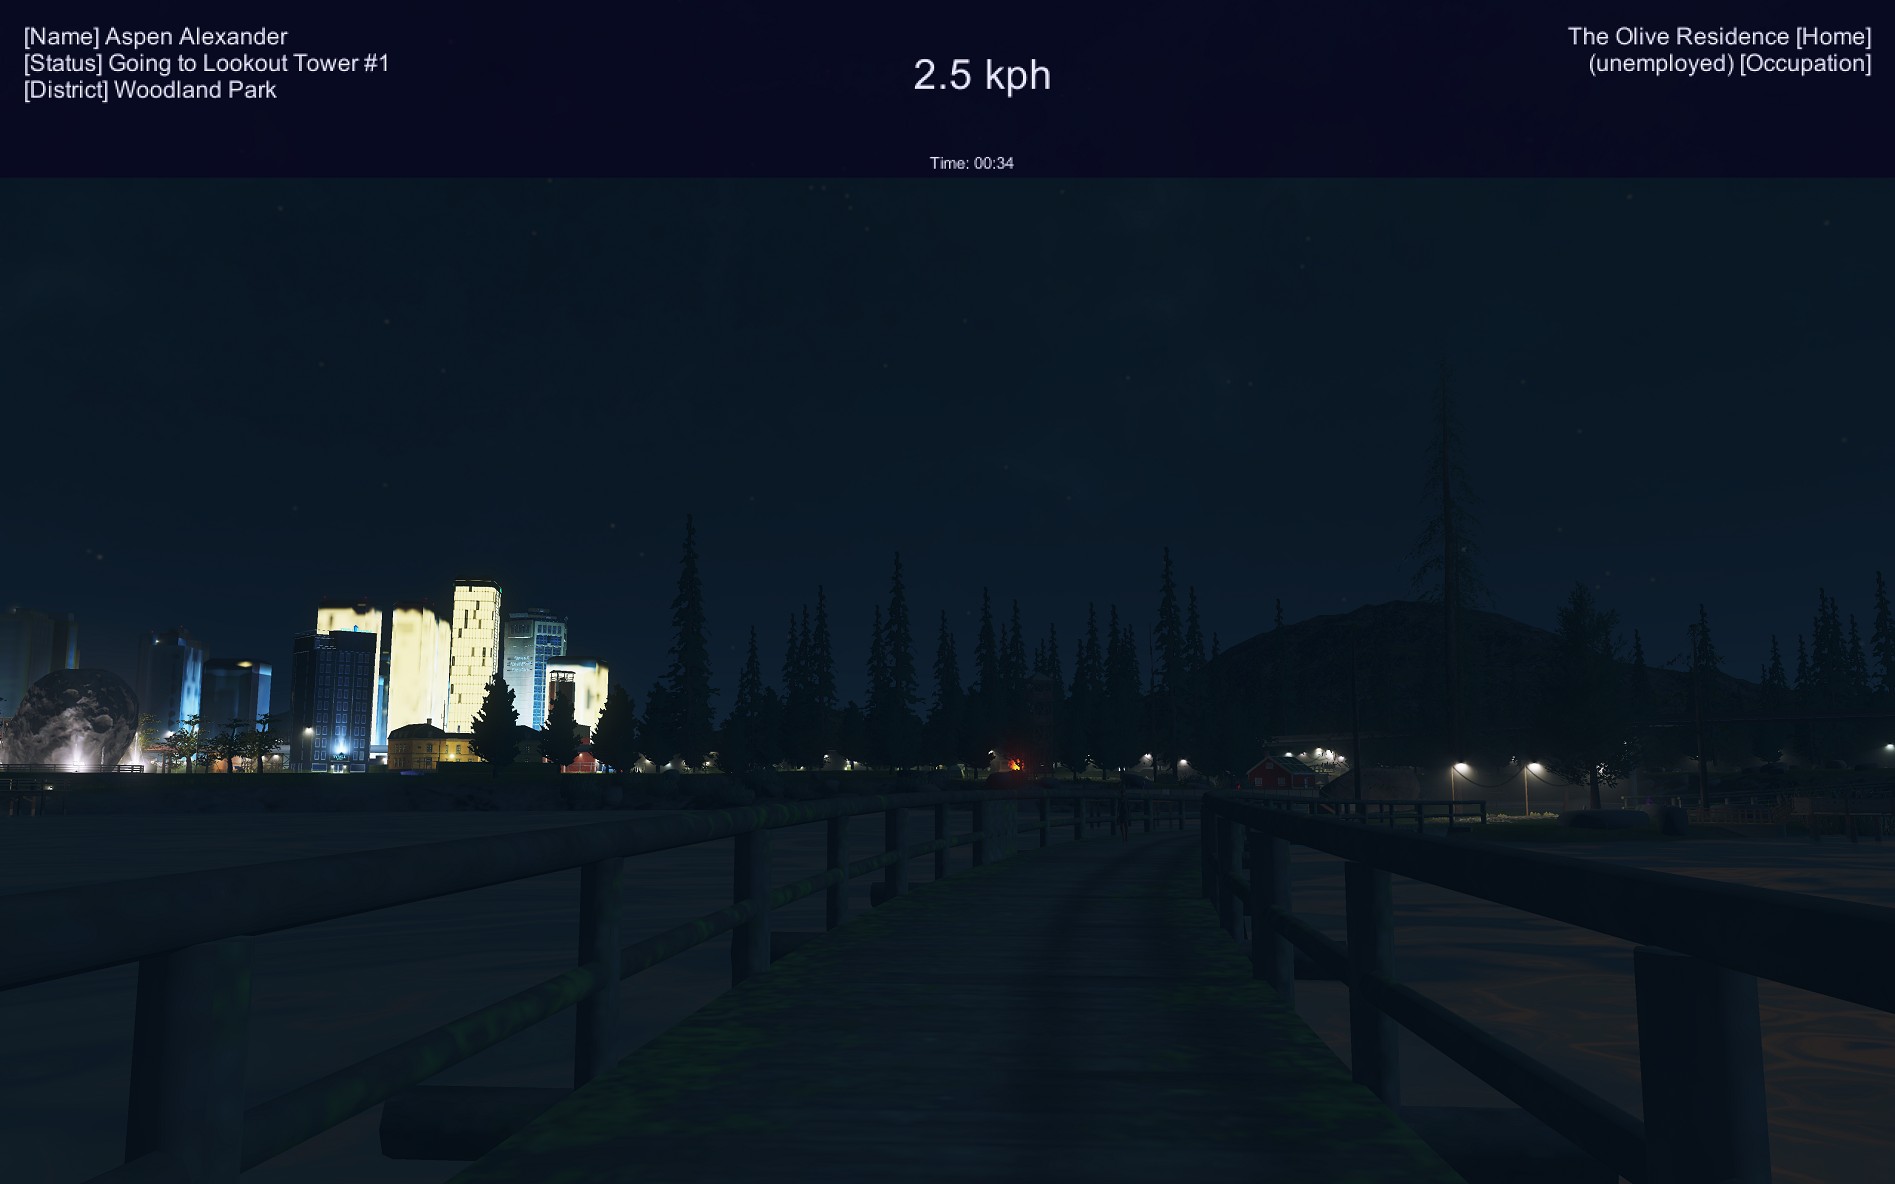
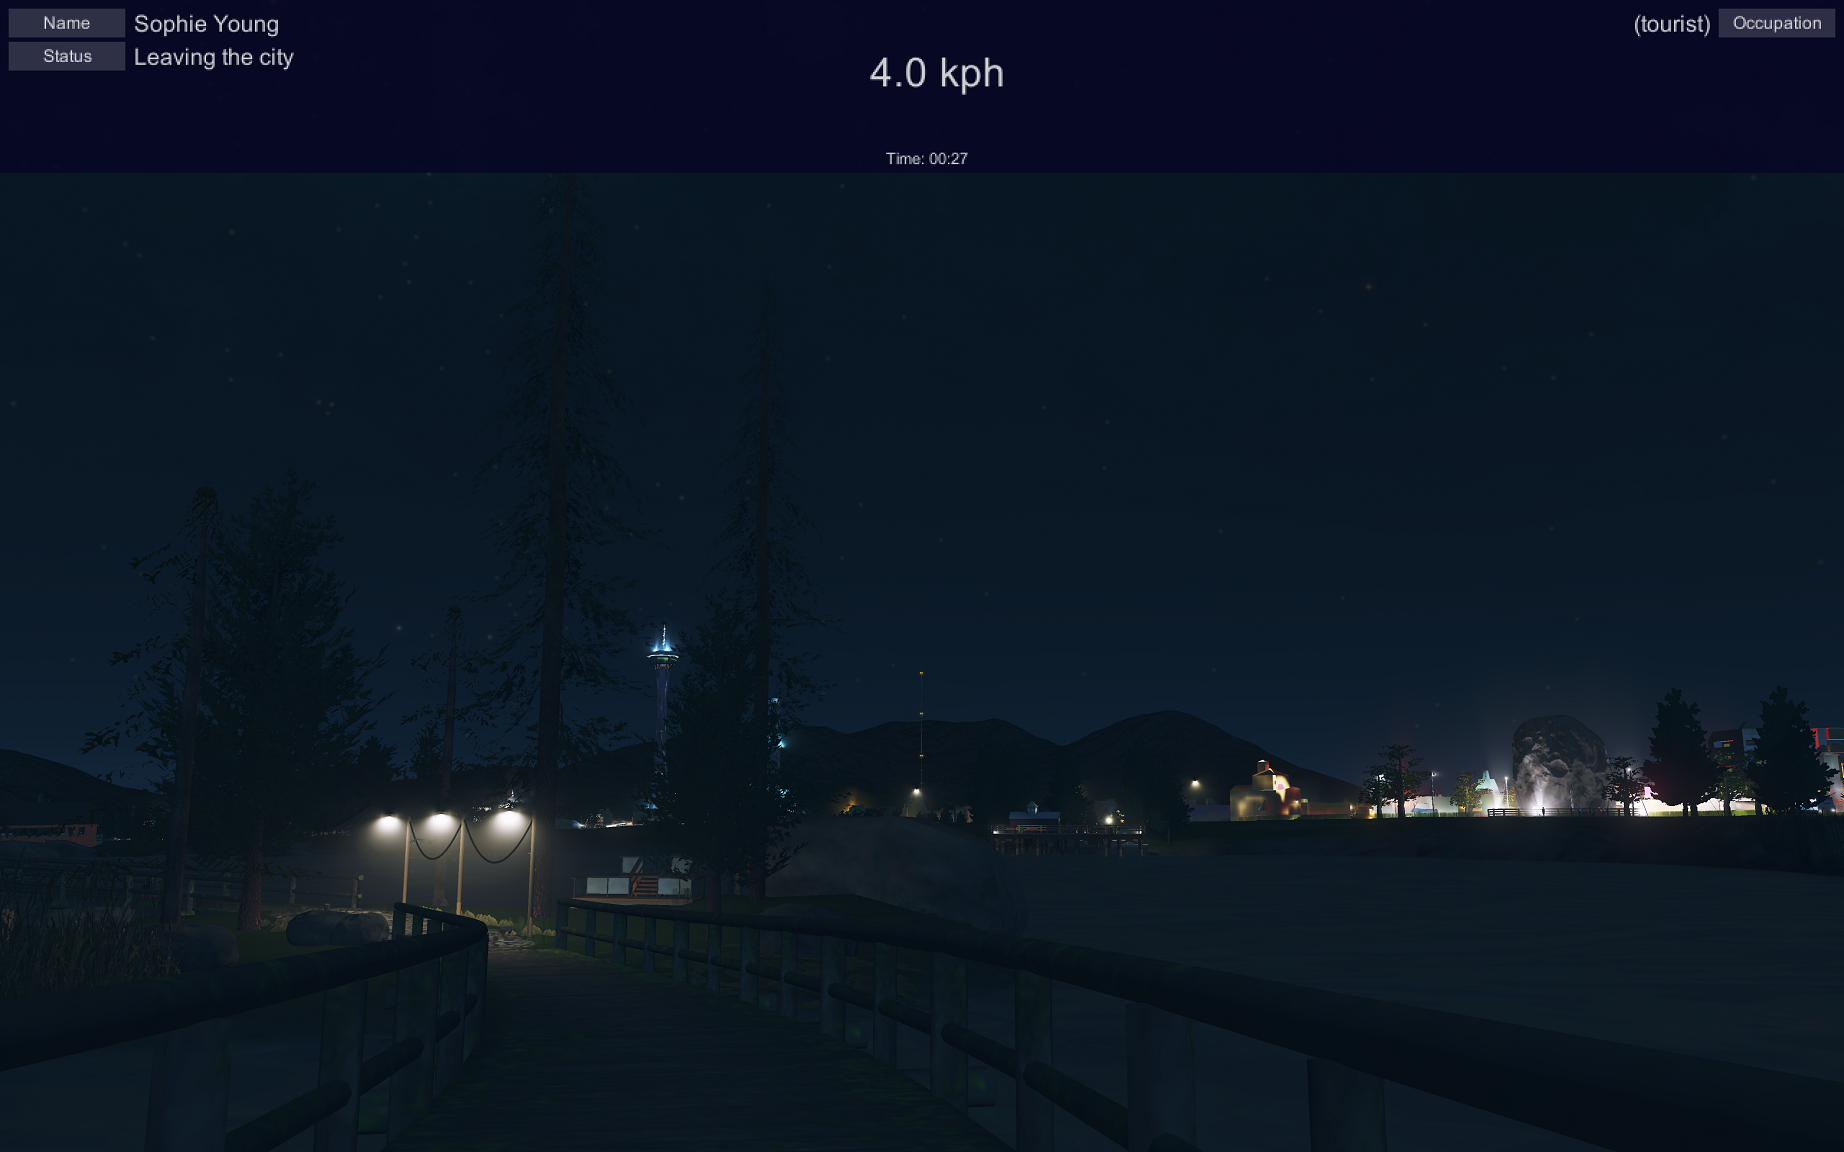
Enhance <CamInfoPanel>'s UI & Harmony error handling
- Harmony: error handling mainly for Harmony not existed.
- update format of <CamInfoPanel>'s UI.
- update images for UI changes.

diff --git a/FPSCamera/UI/CamInfoPanel.cs b/FPSCamera/UI/CamInfoPanel.cs
@@ -3,6 +3,8 @@ namespace FPSCamera.UI
     using Configuration;
     using CSkyL;
     using CSkyL.Game;
+    using System.Collections.Generic;
+    using System.Linq;
     using UnityEngine;
     using Cam = Cam;
     using Obj = CSkyL.Game.Object.Object;
@@ -16,20 +18,19 @@ namespace FPSCamera.UI
             _lastBufferStrUpdateTime = -1f;
             enabled = true;
         }
-        public string GetLeftString() => _left;
-        public string GetMidString() => _mid;
-        public string GetRightString() => _right;
-        public string GetFooterString() => _footer;
 
         protected override void _Init()
         {
-            _elapsedTime = 0f;
-            _lastBufferStrUpdateTime = -1f;
-            _left = ""; _mid = ""; _right = ""; _footer = "";
+            _elapsedTime = 0f; _lastBufferStrUpdateTime = -1f;
+            _mid = _footer = "";
+            _leftInfos = new Utils.Infos(); _rightInfos = new Utils.Infos();
 
-            _texture = new Texture2D(1, 1, TextureFormat.RGBA32, false);
-            _texture.SetPixel(0, 0, new Color32(50, 40, 100, 180));
-            _texture.Apply();
+            _panelTexture = new Texture2D(1, 1, TextureFormat.RGBA32, false);
+            _panelTexture.SetPixel(0, 0, new Color32(45, 40, 105, 200));
+            _panelTexture.Apply();
+            _infoFieldTexture = new Texture2D(1, 1, TextureFormat.RGBA32, false);
+            _infoFieldTexture.SetPixel(0, 0, new Color32(255, 255, 255, 40));
+            _infoFieldTexture.Apply();
 
             enabled = false;
         }
@@ -39,9 +40,8 @@ namespace FPSCamera.UI
             if (_camWRef?.Target is Cam.Base cam && cam.Validate()) {
                 _elapsedTime += Utils.TimeSinceLastFrame;
                 if (_elapsedTime - _lastBufferStrUpdateTime > _bufferUpdateInterval) {
-                    _left = _GetStatus(cam);
-                    _mid = _GetSpeed(cam.GetSpeed());
-                    _right = cam is Cam.FollowCam fc ? _GetTargetInfos(fc.GetTargetInfos()) : "";
+                    _UpdateStatus(cam); _UpdateTargetInfos(cam); _UpdateSpeed(cam);
+
                     _footer = "Time: ";
                     if (cam is Cam.ICamUsingTimer timerCam) {
                         var time = timerCam.GetElapsedTime();
@@ -52,58 +52,66 @@ namespace FPSCamera.UI
                 }
             }
             else {
-                _left = ""; _right = ""; _footer = "";
-                _mid = "(no cam)";
+                _leftInfos.Clear(); _rightInfos.Clear();
+                _footer = ""; _mid = "(no cam)";
             }
         }
 
-        private static string _GetTargetInfos(Utils.Infos infos)
+        private void _UpdateStatus(Cam.Base cam)
         {
-            string str = "";
-            infos?.ForEach(pair => str += $"{pair.text} [{pair.field}]\n");
-            return str.Length == 0 ? "" : str.Substring(0, str.Length - 1);
-        }
-
-        private static string _GetStatus(Cam.Base cam)
-        {
-            string str = "";
+            _leftInfos.Clear();
             if (cam is Cam.FollowCam followCam) {
-                str += $"[Name] {Obj.Of(followCam.TargetID).Name}\n";
-                str += $"[Status] {followCam.GetTargetStatus()}\n";
+                _leftInfos["Name"] = Obj.Of(followCam.TargetID).Name;
+                _leftInfos["Status"] = followCam.GetTargetStatus();
             }
-            cam.GetGeoInfos()?.ForEach(pair => str += $"[{pair.field}] {pair.text}\n");
-            return str.Length == 0 ? "" : str.Substring(0, str.Length - 1);
+            _leftInfos.AddRange(cam.GetGeoInfos());
         }
-
-        private static string _GetSpeed(float speed)
-            => string.Format("{0,5:F1} {1}ph",
-                Config.G.UseMetricUnit ? Map.ToKilometer(speed) : Map.ToMile(speed),
+        private void _UpdateTargetInfos(Cam.Base cam)
+        {
+            if (cam is Cam.FollowCam followCam)
+                _rightInfos = followCam.GetTargetInfos();
+            else _rightInfos.Clear();
+        }
+        private void _UpdateSpeed(Cam.Base cam)
+            => _mid = string.Format("{0,5:F1} {1}ph",
+                Config.G.UseMetricUnit ? cam.GetSpeed().ToKilometer() : cam.GetSpeed().ToMile(),
                 Config.G.UseMetricUnit ? "k" : "m");
 
         protected override void _UnityGUI()
         {
             var width = (float) Screen.width;
-            var height = (Screen.height * .15f).Clamp(100f, 800f)
-                                * Config.G.InfoPanelHeightScale;
+            var height = (Screen.height * _heightRatio).Clamp(100f, 800f)
+                                                       * Config.G.InfoPanelHeightScale;
             var style = new GUIStyle();
 
-            style.normal.background = _texture;
+            style.normal.background = _panelTexture;
             GUI.Box(new Rect(0f, -10f, width, height + 10f), "", style);
             style.normal.background = null;
 
             style.fontSize = (int) (height * _fontHeightRatio);
-            style.normal.textColor = new Color(.9f, .9f, 1f);
-            style.wordWrap = true;
-            var blockWidth = width / 5f;
-            var margin = Mathf.Clamp(width * .01f, style.fontSize, style.fontSize * 4f);
+            style.normal.textColor = new Color(1f, 1f, 1f, .8f);
 
-            var rect = new Rect(margin, margin, (blockWidth - margin) * 2f, height - margin);
-            style.alignment = TextAnchor.UpperLeft;
-            GUI.Label(rect, _left, style);
+            var margin = (width * _marginWidthRatio).Clamp(0f, height * _marginHeightRatio);
+            var infoMargin = margin * _infoMarginRatio;
+            var blockWidth = (width - margin) / 5f;
+            var infoWidth = blockWidth * 2f - margin;
+            var fieldWidth = (infoWidth * _fieldWidthRatio)
+                                 .Clamp(style.fontSize * 5f, style.fontSize * 8f);
+            var textWidth = infoWidth - fieldWidth - margin;
+
+            var rect = new Rect(margin, margin, infoWidth, height - margin);
+            style.alignment = TextAnchor.MiddleLeft;
+            var columnRect = rect; columnRect.width = fieldWidth;
+            _DrawInfoFields(_leftInfos, style, columnRect, infoMargin);
+            columnRect.x += fieldWidth + margin; columnRect.width = textWidth;
+            _DrawListInRows(_leftInfos.Select(info => info.text), style, columnRect, infoMargin);
 
             rect.x += blockWidth * 3f;
-            style.alignment = TextAnchor.UpperRight;
-            GUI.Label(rect, _right, style);
+            style.alignment = TextAnchor.MiddleRight;
+            columnRect = rect; columnRect.width = textWidth;
+            _DrawListInRows(_rightInfos.Select(info => info.text), style, columnRect, infoMargin);
+            columnRect.x += textWidth + margin; columnRect.width = fieldWidth;
+            _DrawInfoFields(_rightInfos, style, columnRect, infoMargin);
 
             var timerHeight = height / 6f;
             rect.x -= blockWidth; rect.y = 0f;
@@ -117,13 +125,47 @@ namespace FPSCamera.UI
             GUI.Label(rect, _footer, style);
         }
 
+        private void _DrawInfoFields(Utils.Infos infos, GUIStyle style, Rect rect, float margin)
+        {
+            style.normal.background = _infoFieldTexture;
+            var oAlign = style.alignment;
+            var oFontSize = style.fontSize;
+            style.alignment = TextAnchor.MiddleCenter;
+            style.fontSize = (int) (oFontSize * _fieldFontSizeRatio);
+
+            _DrawListInRows(infos.Select(info => info.field), style, rect, margin);
+
+            style.normal.background = null;
+            style.alignment = oAlign; style.fontSize = oFontSize;
+        }
+        private void _DrawListInRows(IEnumerable<string> strings,
+                                     GUIStyle style, Rect rect, float margin)
+        {
+            var rowHeight = rect.height * _infoRowRatio;
+            var rowRect = rect; rowRect.height = rowHeight - margin;
+            foreach (var str in strings) {
+                GUI.Label(rowRect, str, style);
+                rowRect.y += rowHeight;
+            }
+        }
+
         private const float _bufferUpdateInterval = .25f;
+
+        private const float _heightRatio = .15f;
         private const float _fontHeightRatio = .14f;
+        private const float _marginWidthRatio = .015f;
+        private const float _marginHeightRatio = .05f;
+        private const float _infoMarginRatio = .5f;
+        private const float _infoRowRatio = .2f;
+        private const float _fieldWidthRatio = .16f;
+        private const float _fieldFontSizeRatio = .8f;
+
 
         private System.WeakReference _camWRef;
         private float _elapsedTime, _lastBufferStrUpdateTime;
 
-        private string _left, _mid, _right, _footer;
-        private Texture2D _texture;
+        private string _mid, _footer;
+        private Utils.Infos _leftInfos, _rightInfos;
+        private Texture2D _panelTexture, _infoFieldTexture;
     }
 }

diff --git a/FPSCamera/Mod.cs b/FPSCamera/Mod.cs
@@ -10,7 +10,7 @@ namespace FPSCamera
     {
         public const string name = "First Person Camera";
         public const string nameShort = "FPSCamera";
-        public const string version = "v2.0";
+        public const string version = "v2.1";
 
         public string Name => $"{name} {version}";
         public string Description => "View your city from a different perspective";
@@ -21,8 +21,8 @@ namespace FPSCamera
             Log.Msg("Mod: enabled - v" +
                     Assembly.GetExecutingAssembly().GetName().Version);
 
-            CSkyL.Harmony.Patcher.PatchOnReady(Assembly.GetExecutingAssembly());
             LoadConfig();
+            CSkyL.Harmony.Patcher.PatchOnReady(Assembly.GetExecutingAssembly());
 
             if (CamController.I is null) return;
             // Otherwise, this implies it's in game/editor.
@@ -58,6 +58,10 @@ namespace FPSCamera
         public override void OnLevelLoaded(LoadMode mode)
         {
             Log.Msg("Mod: level loaded in: " + mode.ToString());
+
+            var assembly = Assembly.GetExecutingAssembly();
+            if (!CSkyL.Harmony.Patcher.HasPatched(assembly))
+                CSkyL.Harmony.Patcher.PatchOnReady(assembly);
 
             if (CamController.I is CamController c)
                 _TryInstallController();

diff --git a/FPSCamera/UI/Utils/Style.cs b/FPSCamera/UI/Utils/Style.cs
@@ -9,7 +9,7 @@
         {
             namePrefix = "FPS_",
             textColor = Color.RGB(221, 220, 250),
-            color = Color.RGBA(165, 160, 240, 250),
+            color = Color.RGBA(162, 160, 240, 250),
             bgColor = Color.RGBA(51, 50, 120, 250),
             colorDisabled = Color.RGBA(42, 40, 80, 220),
             textColorDisabled = Color.RGB(122, 120, 140),
